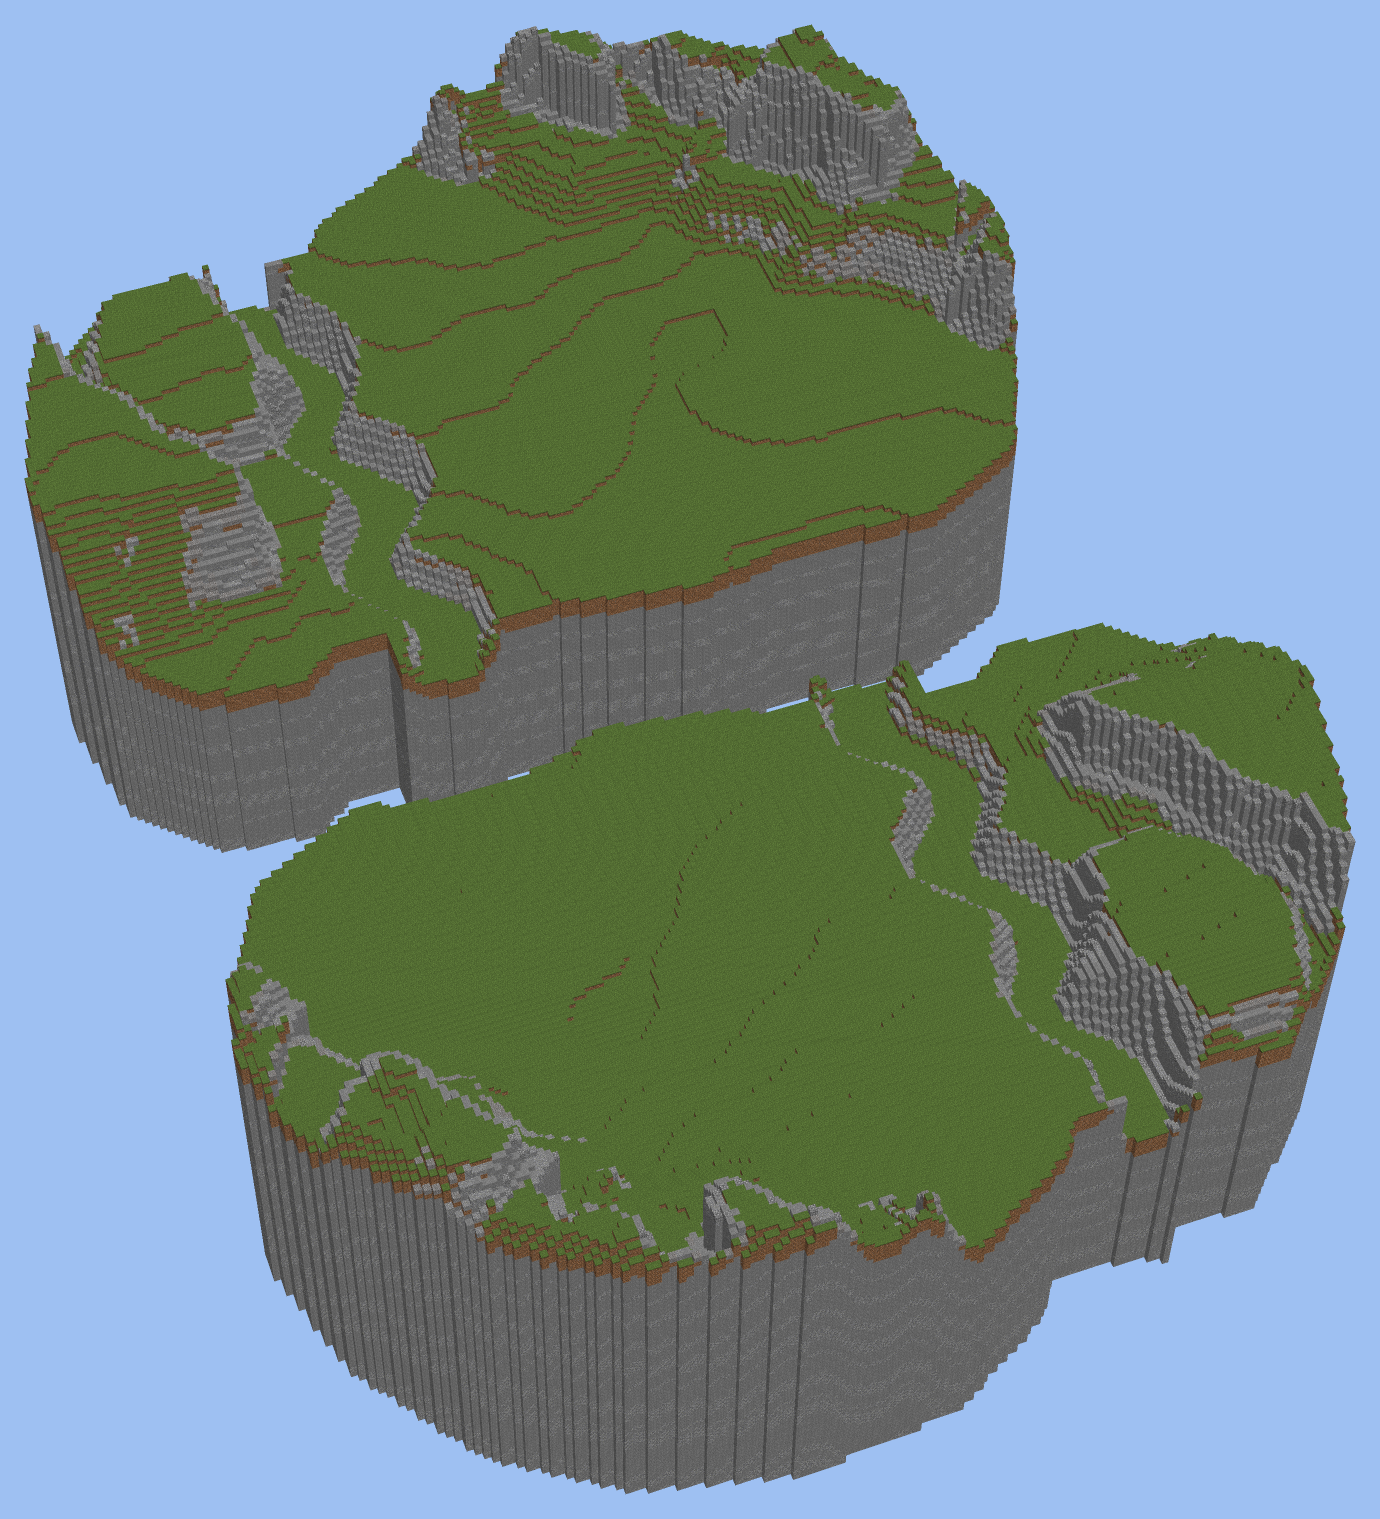
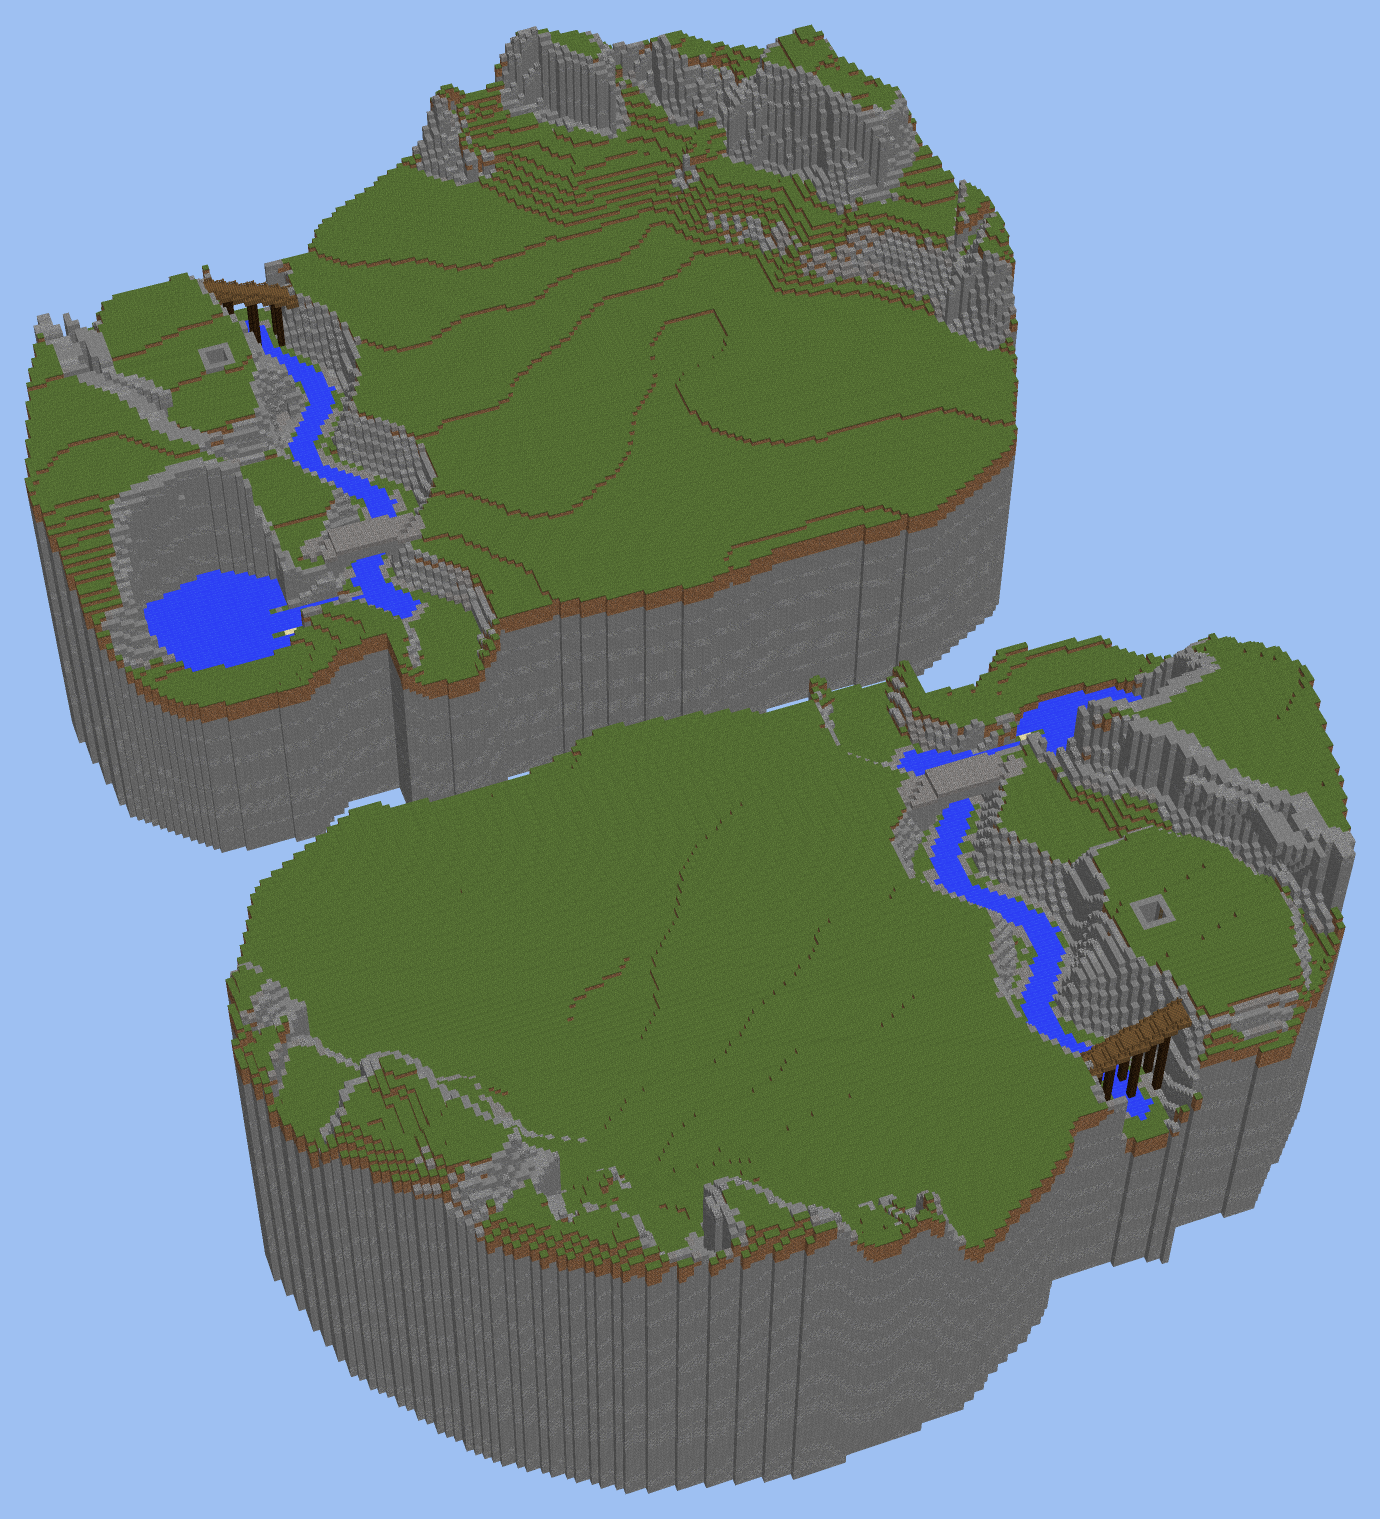
Chantry Gill: water, two bridges, the brow, the shelter and the chimney
The beck rises at the gill's head, runs its floor and turns east through
its mouth into the tarn on the Scar's front, a beach on the tarn's north
shore. The brig is read off the gill's rims and spans it near the front; a
timber bridge on log trestles climbs over it at the back from the fell to
the bench. The upper face's brow leans out over the bench; a shelter is worn
into the gill's east wall under the bench, a chimney with a ladder up from
it. Footing and loose water read back clean.

Claude-Session: https://claude.ai/code/session_01SkxaMovP21NqxJRVezmVa6

diff --git a/freeform/lib/boards/chantry-gill/scripts/terrain.py b/freeform/lib/boards/chantry-gill/scripts/terrain.py
@@ -80,8 +80,31 @@ def arrays():
     # the gill: its walls from the rims down to a floor at 34 over the inner half of its width
     floor = 34.0
     relief = np.where(between, floor + (relief - floor) * smoothstep(0.5, 1.0, gd), relief)
-    return {"landmask": land.astype(float), "relief": relief, "piece": piece.astype(float),
-            "gill": between.astype(float)}
+    ptop = base + L.PLATEAU_RISE
+    brow_fade = smoothstep(46, 58, Z) * (1 - smoothstep(92, 102, Z))
+    benchd = ndimage.binary_dilation(bench, iterations=2)
+    brow = (across > -reach * brow_fade) & (across < 3) & (brow_fade > 0.25) & land & (benchd | (across > 0))
+    lab, n = ndimage.label(brow)
+    sizes = ndimage.sum(np.ones_like(lab), lab, range(1, n + 1))
+    brow = np.isin(lab, [k + 1 for k, sz in enumerate(sizes) if sz >= 30])     # no stray blocks in the air
+    return {"brow": brow.astype(float), "landmask": land.astype(float), "relief": relief, "piece": piece.astype(float),
+            "gill": between.astype(float), "across": across, "reach": reach * brow_fade, "ptop": ptop,
+            "brow_fade": brow_fade, "bench": ndimage.binary_dilation(bench, iterations=2).astype(float)}
+
+
+def bank(grids, x, z):
+    """The ground at (x, z) on the board's grid, from the relief."""
+    return float(grids["relief"][x - X_RANGE[0], z - Z_RANGE[0]])
+
+
+def crossing(grids, z, x0, x1):
+    """Where the gill is crossed along row z between x0 and x1: (west rim x, east rim x, rim height) - the last
+    column at each side before the ground falls under the rims' height by two."""
+    hs = [(x, bank(grids, x, z)) for x in range(x0, x1 + 1)]
+    deep = [x for x, h in hs if h < 38]
+    w, e = min(deep), max(deep)
+    rim = round(max(bank(grids, w - 2, z), bank(grids, e + 2, z)))
+    return w - 1, e + 1, rim
 
 
 PAINT = [
@@ -93,7 +116,43 @@ PAINT = [
 ]
 
 
-def document():
+TARN = [[47, 27], [56, 23], [67, 25], [73, 32], [70, 42], [58, 46], [49, 40]]
+BECK = [[37, 96], [36, 90], [30, 78], [37, 64], [28, 50], [35, 36], [31, 28], [40, 31], [52, 32]]
+
+
+def document(grids=None):
+    grids = grids or arrays()
+    bw, be, brim = crossing(grids, 38, 14, 50)
+    tw, te, trim = crossing(grids, 92, 20, 52)
+    # the timber bridge climbs from the fell's rim to the bench's, a stair on every rise
+    hw, he = round(bank(grids, tw - 1, 92)), round(bank(grids, te + 1, 92))
+    timber = []
+    span = list(range(tw - 1, te + 2))
+    for j, x in enumerate(span):
+        y = round(hw + (he - hw) * j / max(len(span) - 1, 1))
+        nxt = round(hw + (he - hw) * (j + 1) / max(len(span) - 1, 1))
+        timber.append({"box": [x, y, 91, x, y, 94], "block": ["PLANKS", 1]})
+        if nxt > y and j + 1 < len(span):
+            timber.append({"box": [x, y + 1, 92, x, y + 1, 93], "block": ["SPRUCE_STAIRS", 0]})
+        timber += [{"box": [x, y + 1, 91, x, y + 1, 91], "block": "SPRUCE_FENCE"},
+                   {"box": [x, y + 1, 94, x, y + 1, 94], "block": "SPRUCE_FENCE"}]
+        if (x - tw) % 4 == 2 and tw < x < te:
+            timber.append({"box": [x, 35, 91, x, y - 1, 91], "block": ["LOG", 1]})
+            timber.append({"box": [x, 35, 94, x, y - 1, 94], "block": ["LOG", 1]})
+    trim = f"{hw} to {he}"
+    doc = _document()
+    doc["volume"] = [
+        {"id": "brig", "op": "arch", "line": {"pts": [[bw - 1, 38], [be + 1, 38]], "spline": False}, "width": 5,
+         "deck": [brim + 1, brim, 2], "camber": 0, "thick": [2, 9, 2.5], "clear": 3, "top": "GRAVEL",
+         "under": "STONE", "rock": "STONE", "note": f"the brig: a stone arch over the gill, x {bw} to {be}, deck at {brim}"}]
+    doc["build"] = [{"id": "chimney-foot", "op": "blocks", "boxes": [{"box": [49, 35, 76, 49, 37, 76], "block": "STONE"}],
+                     "note": "rock behind the chimney ladder's foot, where the shelter opened the shaft's wall"},
+                    {"id": "back-bridge", "op": "blocks", "boxes": timber,
+                     "note": f"a timber bridge over the gill behind the brow, x {tw} to {te}, its deck at {trim}"}]
+    return doc
+
+
+def _document():
     return {
         "document": "layers", "version": "draft-1",
         "board": {"name": "Chantry Gill", "x": list(X_RANGE), "z": list(Z_RANGE), "floor": FLOOR, "height": 100,
@@ -106,8 +165,41 @@ def document():
              "note": "blue's two islands and the gill between them; red's are their half turn"},
             {"id": "relief", "op": "set", "height": "relief",
              "note": "the fell rising five to the back, the highlands piece by piece, the Scar in three storeys, the gill"},
+            {"id": "tarn", "op": "crater", "floor": 30, "flat": 3, "slope": 0.5, "melt": 5,
+             "areas": [{"polygon": TARN, "rough": {"amp": 0.12, "cell": 5, "seed": 7}}],
+             "note": "the tarn's bowl on the Scar's front"},
+            {"id": "shore", "op": "level", "mode": "cut", "top": 36, "inner": 0.5, "outer": 1.6,
+             "areas": [{"ellipse": {"at": [60, 22], "rx": 16, "rz": 7}, "rough": {"amp": 0.1, "cell": 6, "seed": 14}}],
+             "note": "the ground let down to the tarn's north shore, where the beach is"},
+            {"id": "beck", "op": "river", "line": BECK, "width": 4, "depth": 1, "water": 1, "bank": 1,
+             "note": "the beck: rising at the gill's head, down its floor, turning east through its mouth into the tarn"},
+            {"id": "tarn-water", "op": "water", "level": 34,
+             "where": {"and": [{"lt": ["H", 34]}, {"lt": [{"distance": {"polygon": TARN}}, 1.3]}]}},
         ],
-        "paint": PAINT,
+        "paint": [{"block": "SAND", "slope": [None, 30], "height": [None, 35],
+                   "area": {"polygon": TARN, "plus": -0.12}, "note": "the beach at the water's edge"},
+                  {"block": "SAND", "slope": [None, 24], "height": [None, 36],
+                   "area": {"polygon": TARN, "plus": -0.08}, "noise": {"field": "patch", "lo": 0.1}},
+                  {"block": "GRAVEL", "slope": [None, 30], "area": {"line": {"near": "beck", "width": 7}},
+                   "noise": {"field": "patch", "lo": 0}}] + PAINT,
+        "water": {"bed": [{"block": "GRAVEL", "noise": {"field": "patch", "lo": 0.1}}, {"block": "CLAY"}]},
+        "levels": [
+            {"id": "brow", "floor": 58,
+             "ground": [{"id": "brow-outline", "op": "outline",
+                         "where": {"gt": ["brow", 0.5]}},
+                        {"id": "brow-ground", "op": "set", "height": "ptop"}],
+             "paint": [{"block": ["STONE", 5], "noise": {"field": "patch", "lo": 0.2}}, {"block": ["STONE", 0]}],
+             "soil": 0,
+             "underside": {"bottom": {"sub": ["ptop", {"add": [2, {"mul": [2.0, {"add": ["reach", "across"]}]}]}]},
+                           "clear": 2},
+             "note": "the upper face's brow, leaning out over the bench a block for every two up"}],
+        "carve": [
+            {"id": "shelter", "op": "tunnel", "mouths": [0], "cover": 2,
+             "pts": [[39, 35, 73, 3.0], [43, 35, 74, 4.0], [46, 35, 76, 3.2]],
+             "dress": {"seed": 12, "stalagmites": 30, "ores": 20},
+             "note": "the shelter worn into the gill's east wall under the bench"},
+            {"id": "chimney", "op": "shaft", "at": [47, 76], "bottom": 35, "top": "ground", "ladder_on": "e",
+             "wall": "STONE", "post": "STONE", "note": "a chimney from the shelter up onto the bench, a ladder in it"}],
         "lay": {"soil": [[34, 3], [48, 2], [54, 1]], "ledges": True},
         "symmetry": [{"id": "red", "op": "half", "keep": {"ge": ["z", 0]},
                       "note": "red's half: blue's turned about the middle"}],

diff --git a/freeform/lib/boards/chantry-gill/scripts/gen.py b/freeform/lib/boards/chantry-gill/scripts/gen.py
@@ -13,7 +13,8 @@ import terrain as TR                                                            
 import layout as L                                                                     # noqa: E402
 from pgmvox.document import layers                                                     # noqa: E402
 
-doc, grids = TR.document(), TR.arrays()
+grids = TR.arrays()
+doc = TR.document(grids)
 built = layers.build(doc, arrays=grids)
 w = built.world
 for s in built.steps:
